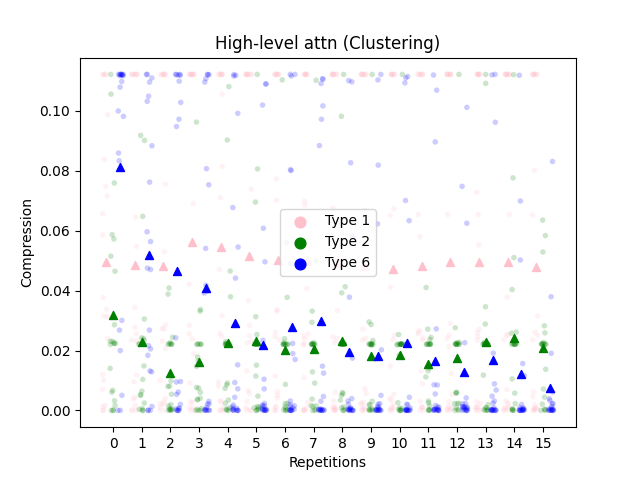
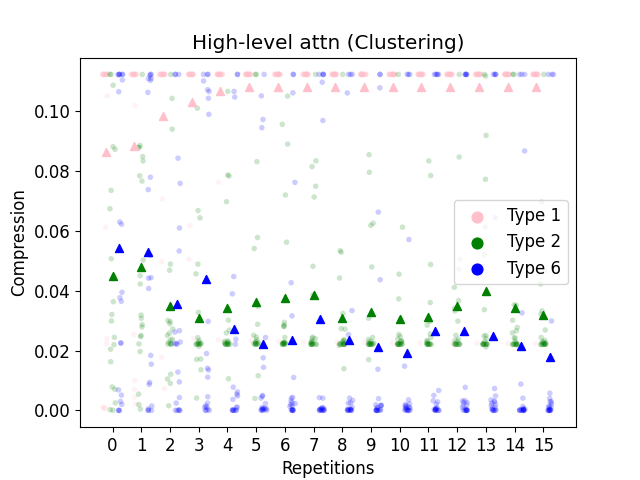
update compression results

diff --git a/compression.py b/compression.py
@@ -51,7 +51,7 @@ def per_subj_compression(repr_level, sub, problem_type, run, config_version):
     Mack 2020, subject's per run compression is the average over trials
     (i.e. repetitions).
     """
-    config_version = f'{config_version}_sub{sub}_fit-human'
+    config_version = f'{config_version}_sub{sub}_fit-human-entropy-fast-nocarryover'
     results_path = f'results/{config_version}'
     compression_scores = []
     for rp in range(1, num_repetitions_per_run+1):
@@ -75,7 +75,7 @@ def per_subj_compression(repr_level, sub, problem_type, run, config_version):
                 f'all_alphas_type{problem_type}_sub{sub}_cluster_rp{repetition}.npy')[-3:]
         
             score = attn_compression(attn_weights)
-        # print(f'[{sub}], rp={repetition}, type={problem_type}, score={score:.3f}')
+        print(f'[{sub}], rp={repetition}, type={problem_type}, score={score:.3f}')
         compression_scores.append(score)
     
     return np.mean(compression_scores)
@@ -370,7 +370,7 @@ def per_subj_compression_repetition_level(
     """
     Compute compression score of a given model (per sub, task, rep).
     """
-    config_version = f'{config_version}_sub{sub}_fit-human'
+    config_version = f'{config_version}_sub{sub}_fit-human-entropy-fast-nocarryover'
     results_path = f'results/{config_version}'
     if repr_level == 'low_attn':
         config = load_config(component=None, config_version=config_version)
@@ -558,22 +558,22 @@ if __name__ == '__main__':
     num_repetitions_per_run = 4
     num_repetitions = 16
     
-    compression_execute(
-        config_version=config_version, 
-        repr_level=repr_level, 
-        subs=subs, 
-        runs=runs, 
-        tasks=tasks, 
-        num_processes=num_processes
-    )
-    
-    mixed_effects_analysis(repr_level)
-    
-    # compression_execute_repetition_level(
+    # compression_execute(
     #     config_version=config_version, 
     #     repr_level=repr_level, 
     #     subs=subs, 
-    #     num_repetitions=num_repetitions,
+    #     runs=runs, 
     #     tasks=tasks, 
     #     num_processes=num_processes
     # )
+    
+    # mixed_effects_analysis(repr_level)
+    
+    compression_execute_repetition_level(
+        config_version=config_version, 
+        repr_level=repr_level, 
+        subs=subs, 
+        num_repetitions=num_repetitions,
+        tasks=tasks, 
+        num_processes=num_processes
+    )
